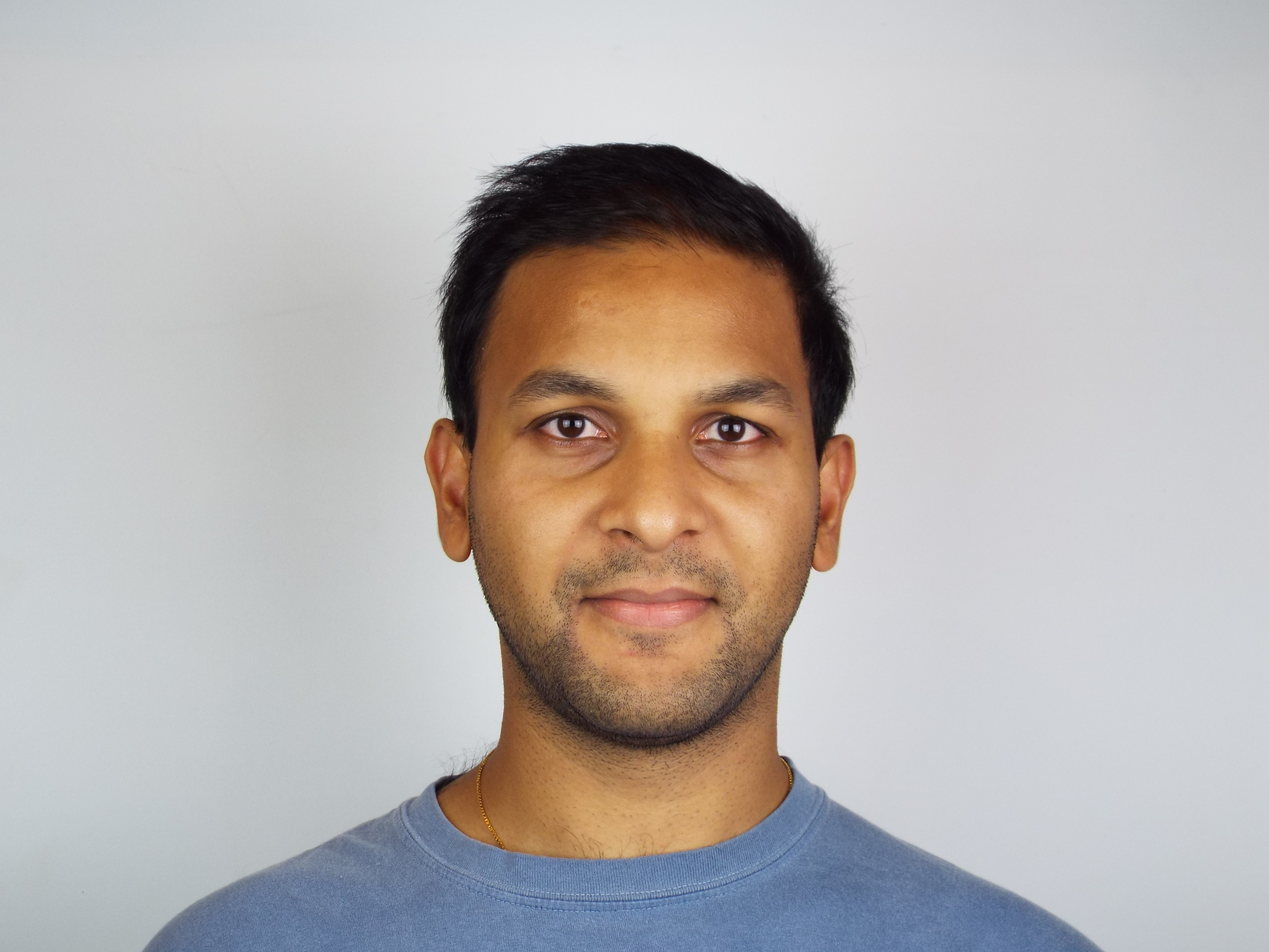
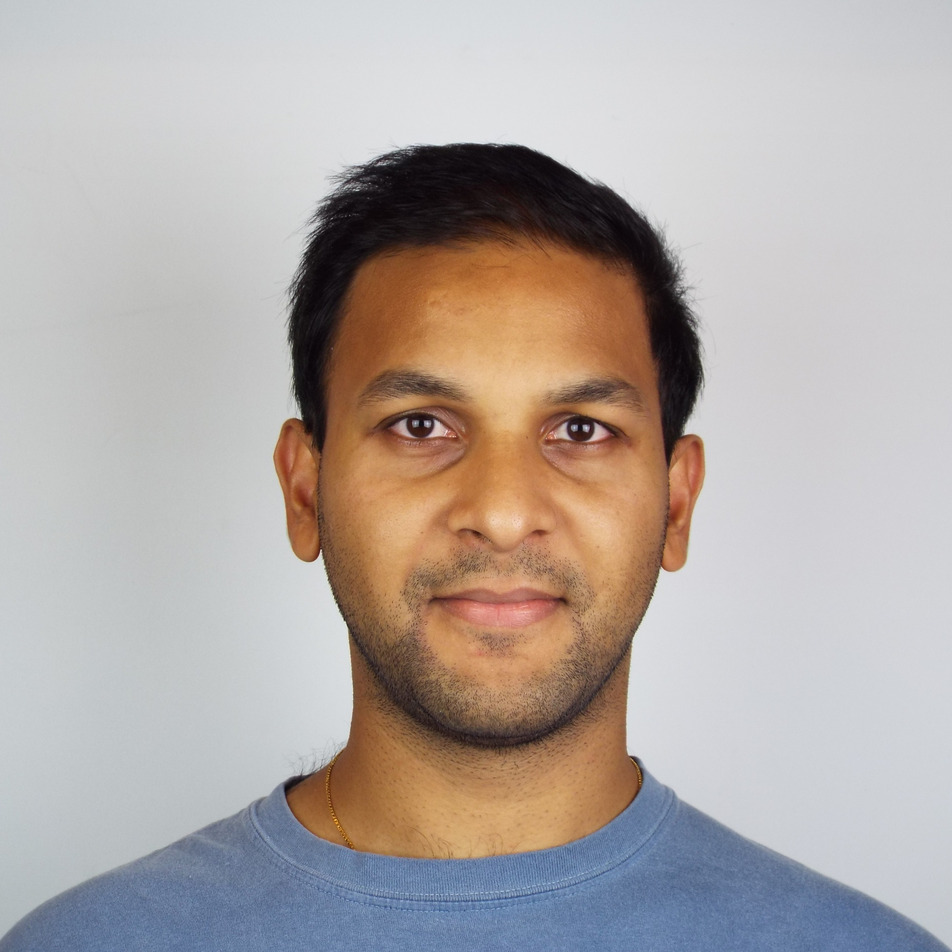
optimize home (#241)

Changed region(s): [[0.0, 0.125, 1.0, 1.0]]

diff --git a/templates/home.html b/templates/home.html
@@ -9,7 +9,7 @@
         <div class="inner">
 
             <!-- embed the profile pic in the html to avoid separate network request -->
-            {% include "inc_profile_pic.html" %}
+            <img class="author-avatar" alt="dope-bio-photo.jpg" src="images/dope-bio-photo.jpg"/>
 
             <h1 id="name">Apoorv Kothari</h1>
 

diff --git a/sass/home.scss b/sass/home.scss
@@ -40,8 +40,8 @@
   .author-avatar {
     padding: 5px;
     border: 1px solid #000;
-    max-width: 110px;
-    border-radius: 50%;
+    max-width: 150px;
+    border-radius: 45%;
     margin-top: 45px;
     margin-bottom: 15px;
   }
